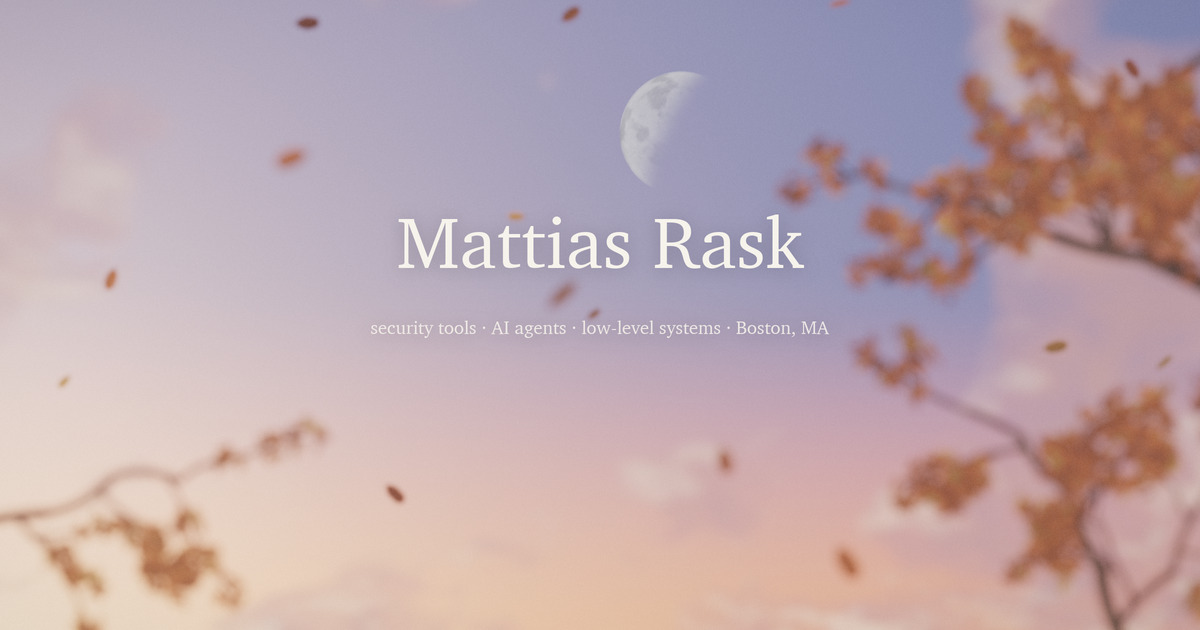
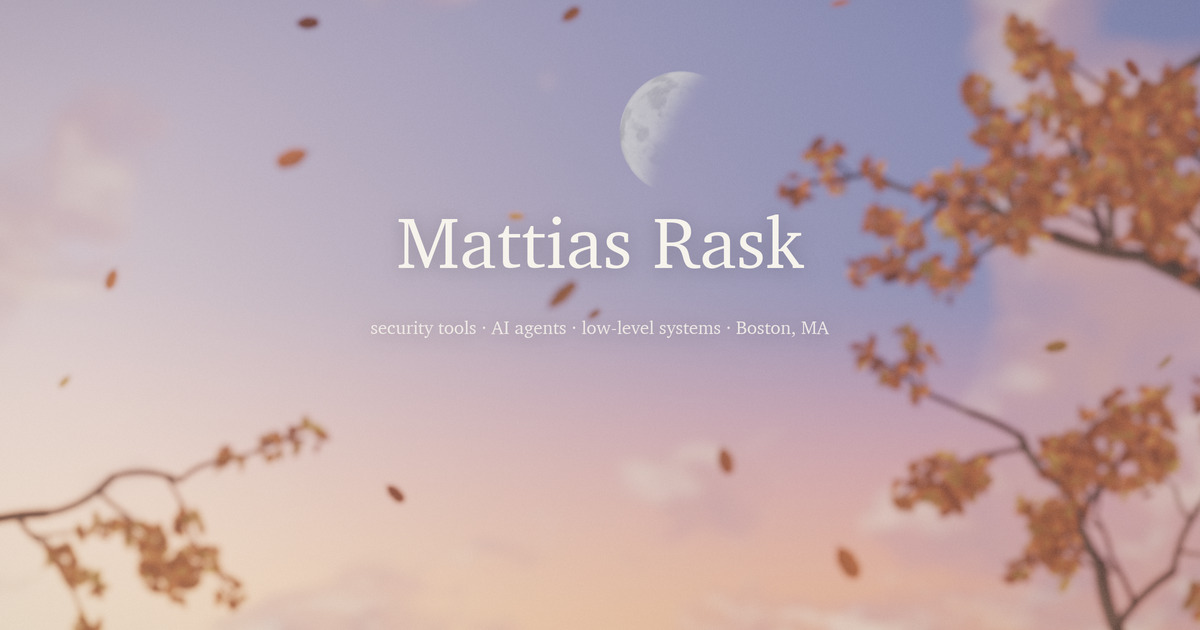
cleaner crown, cricket in focus, lighter cloud foot on phones, new card

diff --git a/sky.js b/sky.js
@@ -16,8 +16,9 @@
    and a cricket sits on the left limb and chirps, wings raised and
    shivering. The crown and the sky render to their own targets and are
    defocused through a 72-tap bokeh disc (the sky less, bright spots
-   bloom); the lens is focused a little short of the tree, so only the
-   leaves falling through that plane stay sharp; all of it is
+   bloom); the lens is focused a little short of the tree, so the
+   leaves falling through that plane stay sharp, and the cricket is
+   drawn in that plane too so it keeps its legs; all of it is
    composited under an ACES grade, a vignette and film grain. Phones
    turn the camera toward the tree: the limbs hang in from the upper
    right at full size and the moon stands to the left of the words.
@@ -192,7 +193,7 @@ var SKY = HEAD + `
 layout(location = 0) out vec4 o0;
 layout(location = 1) out vec4 o1;
 uniform vec2 R;
-uniform float CLT, NIGHT, DUSK, COVER, REACH, FINE, SCALE;
+uniform float CLT, NIGHT, DUSK, COVER, REACH, FINE, SCALE, FOOT;
 uniform vec4 CAM, BOX;
 uniform vec3 SUN, MOON, ZEN, HOR, DMID, DFAR, GLOW, CLIT, CMID, CSHD;
 uniform vec2 LD, SHIFT;
@@ -274,7 +275,7 @@ void main() {
     vec2 p0 = dir.xz / (max(dir.y, 0.0) + 0.5) * 0.85;
     vec2 drift = CLT * vec2(0.014, 0.002);
     float nearMoon = pow(max(dot(dir, MOON), 0.0), 80.0);
-    float th0 = mix(0.80, 0.46, COVER);
+    float th0 = mix(0.80, 0.46, COVER) + FOOT * (1.0 - smoothstep(0.0, 0.5, uv.y));
     vec2 s = vec2(R.x / R.y, 1.0);
     vec2 sc = uv - SHIFT;
     if (boxDist(sc * s, BOX, s) < REACH + 0.06) {
@@ -521,7 +522,7 @@ function program(fragSrc, names) {
   return { p: prog, u: u };
 }
 
-var skyProg = program(SKY, ['R', 'CLT', 'NIGHT', 'DUSK', 'COVER', 'REACH', 'FINE', 'SCALE', 'CAM', 'BOX', 'SHIFT', 'SUN', 'MOON', 'ZEN', 'HOR', 'DMID', 'DFAR', 'GLOW', 'CLIT', 'CMID', 'CSHD', 'LD']);
+var skyProg = program(SKY, ['R', 'CLT', 'NIGHT', 'DUSK', 'COVER', 'REACH', 'FINE', 'SCALE', 'FOOT', 'CAM', 'BOX', 'SHIFT', 'SUN', 'MOON', 'ZEN', 'HOR', 'DMID', 'DFAR', 'GLOW', 'CLIT', 'CMID', 'CSHD', 'LD']);
 var bokehProg = program(BOKEH, ['SRC', 'TEXEL', 'RAD', 'BOOST', 'SCALE']);
 var compProg = program(COMP, ['SKYB', 'FGB', 'MIDB', 'COVT', 'FGMAP', 'MIDMAP', 'T', 'G', 'NIGHT', 'DUSK', 'EXPO', 'SCALE', 'MOONR', 'PH', 'MGAIN', 'STARS', 'CAM', 'BLIT', 'BDRK', 'LL0', 'LL1', 'LL2', 'LD0', 'LD1', 'LD2', 'SUN', 'MOON', 'CTON', 'CTP', 'CTAGE', 'CT', 'METON', 'METP', 'METS', 'METL', 'MET']);
 if (!skyProg || !bokehProg || !compProg) return;
@@ -733,7 +734,7 @@ var sets = { day: null, dusk: null, night: null };
 var leaves = [];
 var lightNow = [-0.85, 0.5];
 var LEAF_N = { near: 7, mid: 16 };
-var FW = 1, FH = 1, D = 1, MX = 0, MY = 0, FBLUR = 6.5, MBLUR = 3.0, REACH = 0.42, FOVK = 1, YAW0 = 0, STARS = 1;
+var FW = 1, FH = 1, D = 1, MX = 0, MY = 0, FBLUR = 4.0, MBLUR = 3.0, REACH = 0.42, FOVK = 1, YAW0 = 0, STARS = 1, FOOT = 0;
 var LIMBS = [];
 
 function layout(portrait) {
@@ -1007,12 +1008,12 @@ function drawCricket(ctx, s, t, alpha) {
 
 /* ------------------------------------------------------- foreground */
 
-function drawSet(set, ctx, t, px, py, wind, night, env) {
-  var calm = 0.05 + 0.95 * wind;
-  var breeze = calm * (0.35 + 0.65 * env);
-  var sways = set.systems.map(function (sy) {
-    return (Math.sin(t * 0.35 + sy.ph) * 0.006 + Math.sin(t * 0.9 + sy.ph * 2.0) * 0.002) * sy.k * breeze;
-  });
+function sway(sy, t, breeze) {
+  return (Math.sin(t * 0.35 + sy.ph) * 0.006 + Math.sin(t * 0.9 + sy.ph * 2.0) * 0.002) * sy.k * breeze;
+}
+
+function drawSet(set, ctx, t, px, py, breeze) {
+  var sways = set.systems.map(function (sy) { return sway(sy, t, breeze); });
   var i, sy, cl, cs, ca, sa, rx, ry;
   for (i = 0; i < set.systems.length; i++) {
     sy = set.systems[i];
@@ -1038,16 +1039,21 @@ function drawSet(set, ctx, t, px, py, wind, night, env) {
     ctx.drawImage(cl.sprite.c, -cs / 2, -cs / 2);
     ctx.restore();
   }
-  if (night > 0.001) {
-    sy = set.systems[set.perch.sys];
-    ctx.save();
-    ctx.translate(sy.ax + px, sy.ay + py);
-    ctx.rotate(sways[set.perch.sys]);
-    ctx.translate(set.perch.x - sy.ax, set.perch.y - sy.ay);
-    ctx.rotate(set.perch.ang);
-    drawCricket(ctx, set.cs, t, smooth01(0.55, 0.95, night));
-    ctx.restore();
-  }
+}
+
+/* The cricket is drawn once, into the focus-plane layer so its legs
+   survive, but rides the left limb's sway and parallax so it stays on
+   its perch. The sets share one geometry, so any of them can place it. */
+
+function drawCricketOn(set, ctx, t, px, py, breeze, night) {
+  var sy = set.systems[set.perch.sys];
+  ctx.save();
+  ctx.translate(sy.ax + px, sy.ay + py);
+  ctx.rotate(sway(sy, t, breeze));
+  ctx.translate(set.perch.x - sy.ax, set.perch.y - sy.ay);
+  ctx.rotate(set.perch.ang);
+  drawCricket(ctx, set.cs, t, smooth01(0.55, 0.95, night));
+  ctx.restore();
 }
 
 function drawForeground(t, px, py, w, wind, night, env) {
@@ -1056,9 +1062,10 @@ function drawForeground(t, px, py, w, wind, night, env) {
   if (w.u > 0.002) active.push(['dusk', w.u]);
   if (w.n > 0.002) active.push(['night', w.n]);
   for (i = 0; i < active.length; i++) sum += active[i][1];
+  var breeze = (0.05 + 0.95 * wind) * (0.35 + 0.65 * env);
   fgctx.clearRect(0, 0, fg.width, fg.height);
   if (active.length === 1) {
-    drawSet(ensureSet(active[0][0]), fgctx, t, px, py, wind, night, env);
+    drawSet(ensureSet(active[0][0]), fgctx, t, px, py, breeze);
   } else {
     /* the looks share one geometry, so adding the sets by weight is an
        exact blend of their shading that leaves every edge's coverage
@@ -1067,7 +1074,7 @@ function drawForeground(t, px, py, w, wind, night, env) {
     fgctx.globalCompositeOperation = 'lighter';
     for (i = 0; i < active.length; i++) {
       sctx.clearRect(0, 0, scratch.width, scratch.height);
-      drawSet(ensureSet(active[i][0]), sctx, t, px, py, wind, night, env);
+      drawSet(ensureSet(active[i][0]), sctx, t, px, py, breeze);
       fgctx.globalAlpha = active[i][1] / sum;
       fgctx.drawImage(scratch, 0, 0);
     }
@@ -1076,6 +1083,7 @@ function drawForeground(t, px, py, w, wind, night, env) {
   }
   drawLeaves(fgctx, 'near', t, px, py, wind);
   midctx.clearRect(0, 0, mid.width, mid.height);
+  if (night > 0.001) drawCricketOn(ensureSet(active[0][0]), midctx, t, px, py, breeze, night);
   drawLeaves(midctx, 'mid', t, px * 0.5, py * 0.5, wind);
   gl.bindTexture(gl.TEXTURE_2D, fgTex);
   gl.texImage2D(gl.TEXTURE_2D, 0, gl.RGBA, gl.RGBA, gl.UNSIGNED_BYTE, fg);
@@ -1292,6 +1300,7 @@ function draw(now) {
   gl.uniform1f(u.COVER, Math.min(1, Math.max(0, blend('cover', w) + coverBoost)));
   gl.uniform1f(u.REACH, REACH);
   gl.uniform1f(u.FINE, fine);
+  gl.uniform1f(u.FOOT, FOOT);
   gl.uniform1f(u.SCALE, SCALE);
   gl.uniform4f(u.CAM, cam[0], cam[1], cam[2], cam[3]);
   gl.uniform4f(u.BOX, box[0], box[1], box[2], box[3]);
@@ -1405,12 +1414,13 @@ function resize() {
     var portrait = hh > hw;
     FW = hw; FH = hh;
     D = portrait ? hw : Math.min(hh, Math.round(hw * 0.9));
-    FBLUR = 6.5 * D / hh;
+    FBLUR = 4.0 * D / hh;
     MBLUR = 3.0 * D / hh;
     REACH = portrait ? 0.34 : 0.42;
     FOVK = portrait ? 1.15 : 1;
     YAW0 = portrait ? 5 * Math.PI / 180 : 0;
     STARS = portrait ? 2.2 : 1;
+    FOOT = portrait ? 0.22 : 0;
     MX = Math.round(hw * 0.05); MY = Math.round(hh * 0.05);
     fg.width = mid.width = scratch.width = hw + 2 * MX;
     fg.height = mid.height = scratch.height = hh + 2 * MY;
